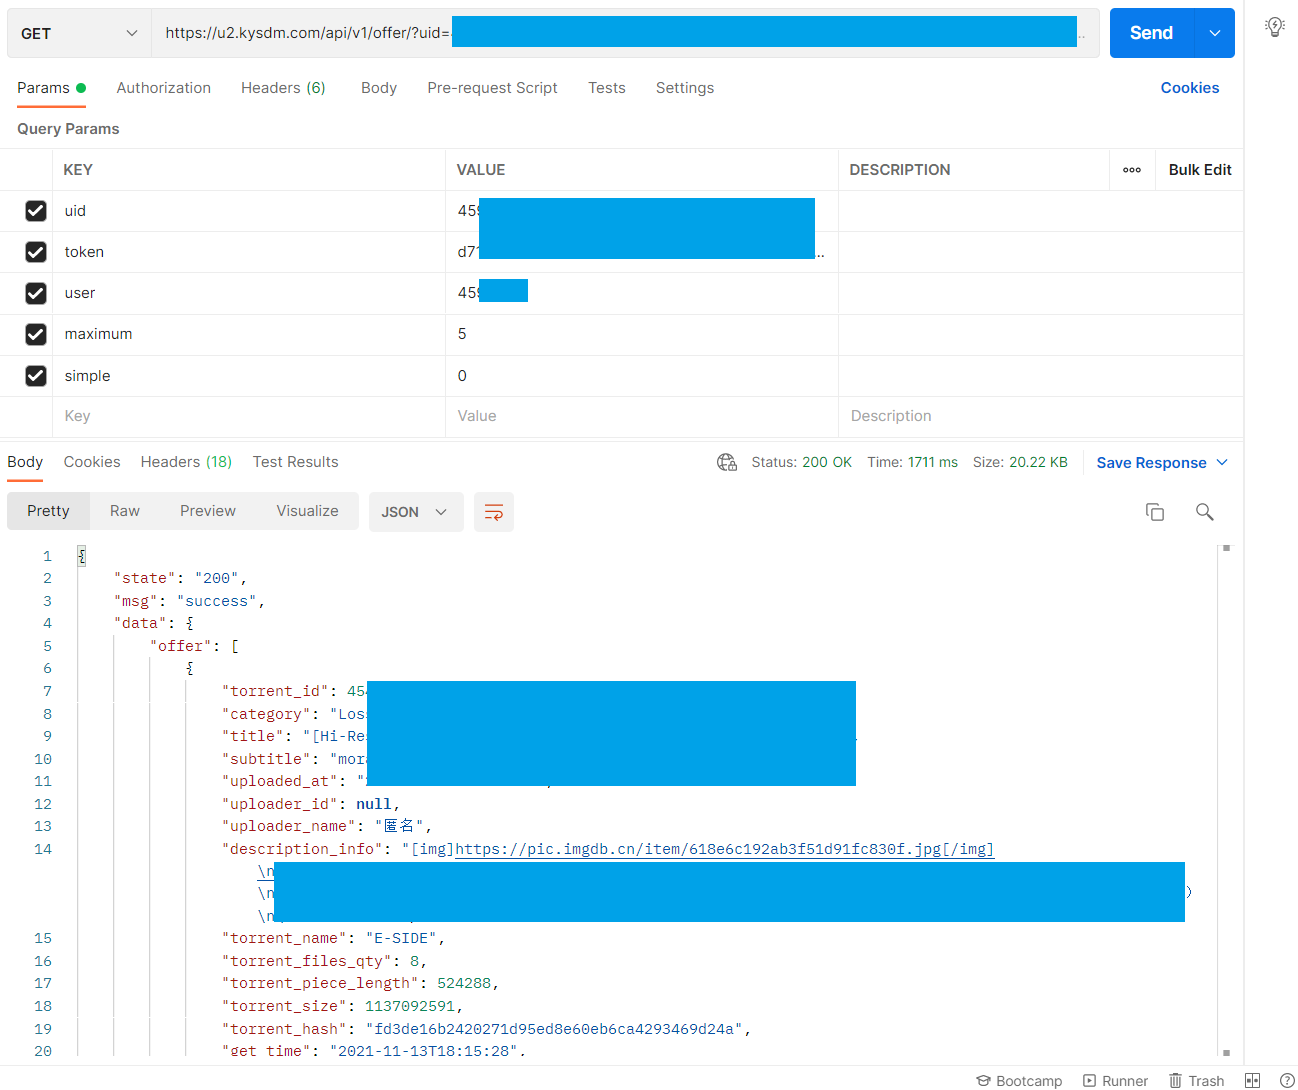
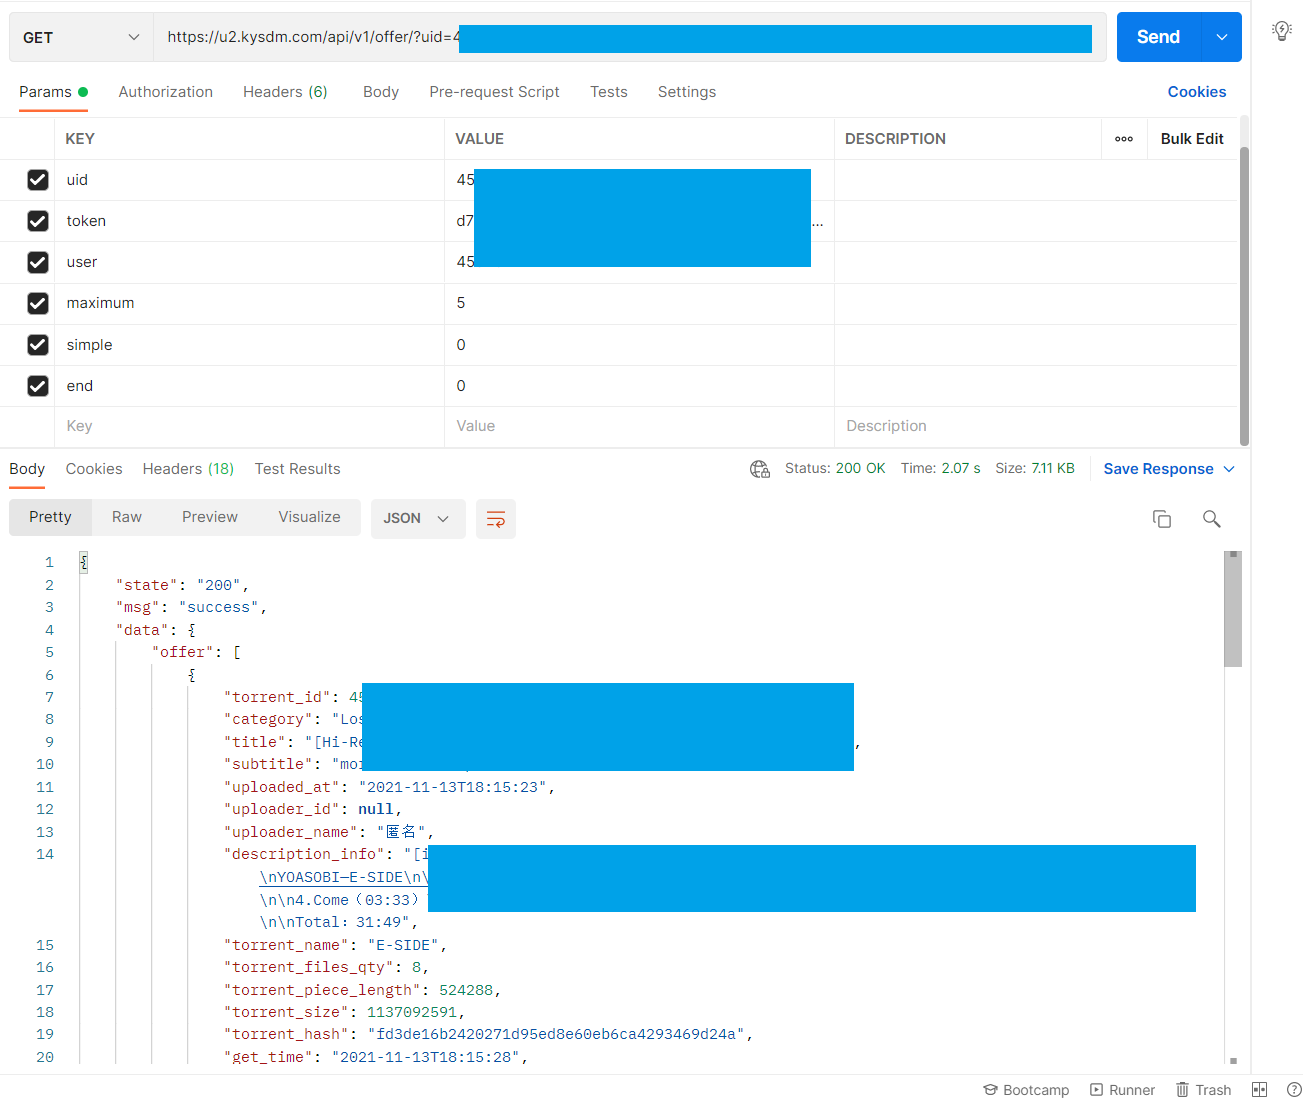
为offer方法增加参数

diff --git a/README.md b/README.md
@@ -111,8 +111,8 @@
 ****
 
 ## 候选
-> ⚠　此方法返回的种子体积并不精确 <end值为0的种子>  
->　　(候选区需要 MOD 才有权限下载种子文件)
+> 此方法返回的种子体积并不精确 <end值为0的种子> (候选区需要 MOD 才有权限下载种子文件)  
+> 此方法会返回被拒绝的候选 (暂时不考虑抓取候选状态)
 
 `GET` `https://u2.kysdm.com/api/v1/offer`
 
@@ -122,6 +122,7 @@
 | token  | str | 鉴权中返回的值 |
 | maximum [optional]| int | 返回数据条数<br>默认值 `10`<br>最大 `30` |
 | simple [optional]| int | `0` 完整信息(包含种子描述等信息)[默认]<br>`1` 简略信息(不包含种子描述等信息) |
+| end [optional]| int | `0` 不包含已经通过候选的种子[默认]<br>`1` 包含已经通过候选的种子 |
 
 ![](https://raw.githubusercontent.com/kysdm/u2_api/main/img/10.png)
 
